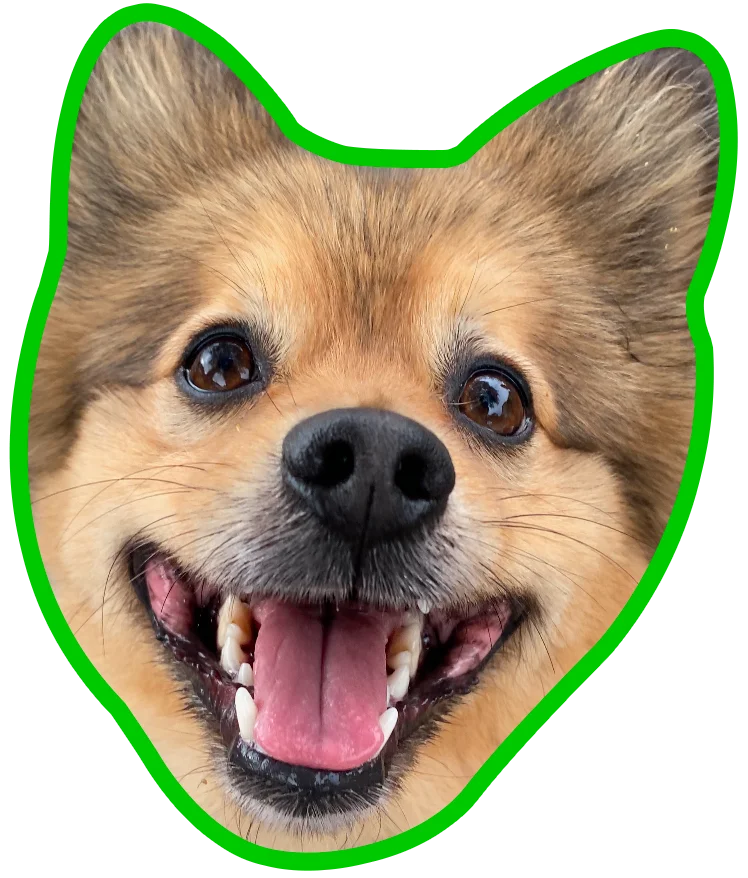
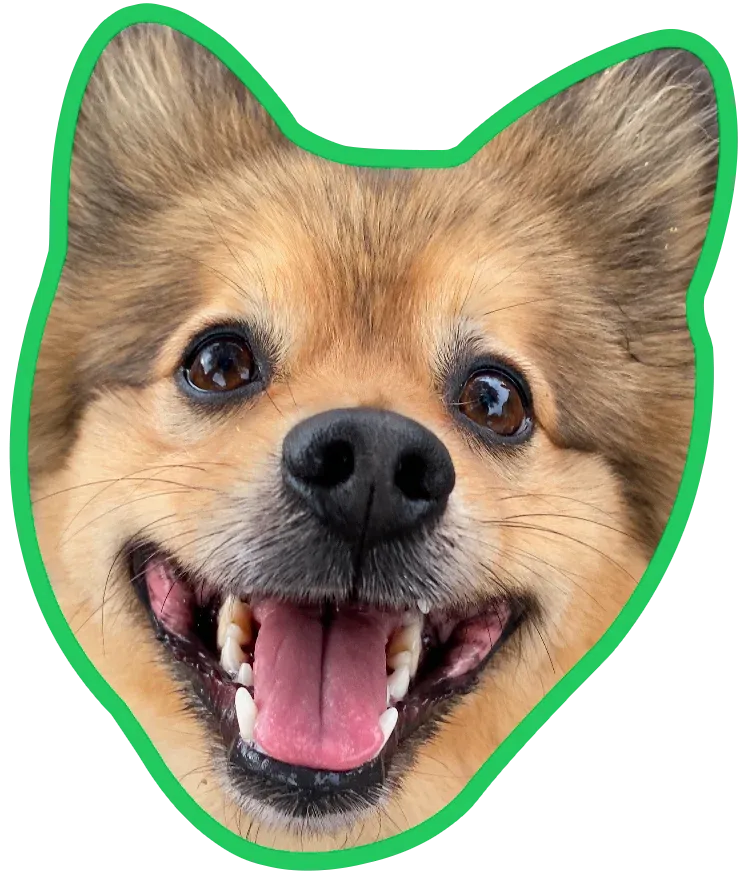
Styling and error handling

Changed region(s): [[0.0, 0.0, 1.0, 1.0]]

diff --git a/src/CryptoPup.js b/src/CryptoPup.js
@@ -20,8 +20,10 @@ const CryptoPup = () => {
     const [period, setPeriod] = useState("24h");
     const [data, setData] = useState(null);
     const [loading, setLoading] = useState(false);
+    const [error, setError] = useState(null);
     const [darkMode, setDarkMode] = useState(false);
     const [flipped, setFlipped] = useState(false);
+    const [retryToken, setRetryToken] = useState(0);
 
     // in-memory cache { bitcoin: { data: ..., timestamp: ... }, ... }
     const cacheRef = useRef({});
@@ -31,9 +33,53 @@ const CryptoPup = () => {
     }, [darkMode]);
 
     useEffect(() => {
+        const controller = new AbortController();
+        let cancelled = false;
+
+        // Retries once on transient failures (network blips, rate limits, bad
+        // response bodies) before giving up and surfacing an error to the user.
+        const fetchWithRetry = async (attempt) => {
+            try {
+                const res = await fetch(
+                    `https://api.coingecko.com/api/v3/coins/markets?vs_currency=usd&ids=${coin}&price_change_percentage=24h,7d,30d`,
+                    { signal: controller.signal }
+                );
+
+                if (!res.ok) {
+                    throw new Error(`CoinGecko request failed with status ${res.status}`);
+                }
+
+                const json = await res.json();
+                const coinData = json[0];
+
+                if (!coinData) {
+                    throw new Error("No data returned for this coin");
+                }
+
+                if (cancelled) return;
+                console.log("📦 Received data:", coinData);
+                setData(coinData);
+                setError(null);
+                cacheRef.current[coin] = { data: coinData, timestamp: Date.now() };
+            } catch (err) {
+                if (err.name === "AbortError" || cancelled) return;
+
+                if (attempt < 1) {
+                    console.warn(`⚠ Fetch attempt ${attempt + 1} failed, retrying…`, err);
+                    await new Promise((resolve) => setTimeout(resolve, 1000));
+                    if (!cancelled) await fetchWithRetry(attempt + 1);
+                    return;
+                }
+
+                console.error("❌ Error fetching data", err);
+                setError("Couldn't load data. Please try again.");
+            }
+        };
+
         const fetchCoinData = async () => {
             console.log(`Selected coin: ${coin}`);
             setLoading(true);
+            setError(null);
 
             const now = Date.now();
             const cached = cacheRef.current[coin];
@@ -46,28 +92,19 @@ const CryptoPup = () => {
             }
 
             console.log("🆕 Fetching new data for", coin);
-            try {
-                const res = await fetch(
-                    `https://api.coingecko.com/api/v3/coins/markets?vs_currency=usd&ids=${coin}&price_change_percentage=24h,7d,30d`
-                );
-                const json = await res.json();
-
-                console.log("📦 Received data:", json[0]);
-
-                setData(json[0]);
-                cacheRef.current[coin] = {
-                    data: json[0],
-                    timestamp: now,
-                };
-            } catch (err) {
-                console.error("❌ Error fetching data", err);
-            } finally {
-                setLoading(false);
-            }
+            await fetchWithRetry(0);
+            if (!cancelled) setLoading(false);
         };
 
         fetchCoinData();
-    }, [coin]);
+
+        return () => {
+            cancelled = true;
+            controller.abort();
+        };
+    }, [coin, retryToken]);
+
+    const handleRetry = () => setRetryToken((t) => t + 1);
 
     const getChange = () => {
         if (!data) return null;
@@ -172,6 +209,18 @@ const CryptoPup = () => {
                                 <div className="h-52 w-52 bg-gray-300 dark:bg-gray-600 rounded" />
                                 <div className="h-4 w-40 bg-gray-300 dark:bg-gray-600 rounded" />
                             </div>
+                        ) : error ? (
+                            <div className="flex flex-col items-center space-y-3 pt-4">
+                                <p className="text-red-500 dark:text-red-400 font-jet">
+                                    {error}
+                                </p>
+                                <button
+                                    onClick={handleRetry}
+                                    className="px-4 py-2 rounded border border-gray-300 dark:border-gray-600 text-gray-700 dark:text-gray-200 hover:bg-gray-100 dark:hover:bg-gray-700 font-jet"
+                                >
+                                    Retry
+                                </button>
+                            </div>
                         ) : data ? (
                             <>
                                 <h2 className="text-xl font-semibold text-gray-800 dark:text-gray-100 font-jet">
@@ -230,12 +279,12 @@ const CryptoPup = () => {
                             Now you can watch price movements and chase gains 🚀 with him.
 
                                 <br /><br />
-                                Built with React + Tailwind. iPhone app coming soon! 📱
+                                Built with React + Tailwind. 💻
                             </p><br />
                             🐕
                         </div>
                         <p className="text-xs text-gray-400 dark:text-gray-500 font-jet">
-                            © 2025 Daniel Brainich 💻
+                            © 2025 Daniel Brainich 
                         </p>
                     </div>
                 </div>
